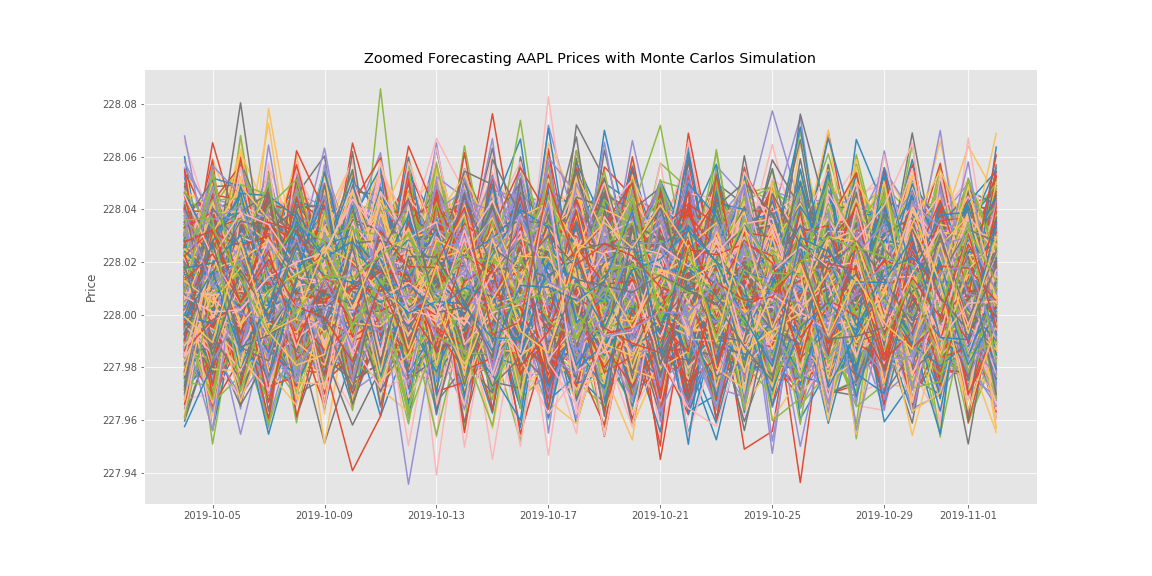
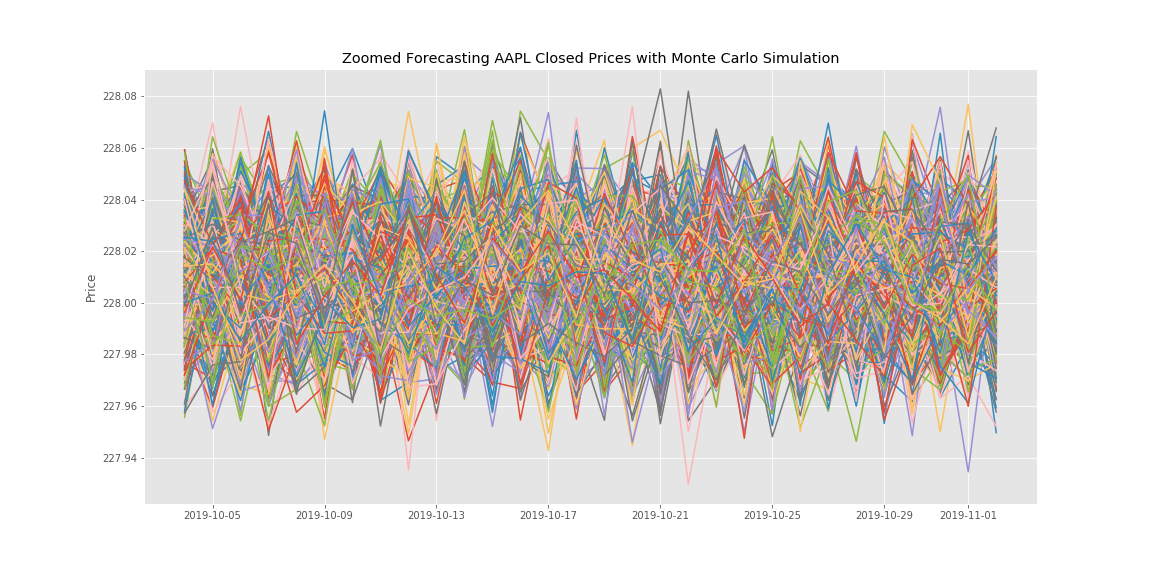
Adjusting the title of plots

diff --git a/montecarlo_simulation.py b/montecarlo_simulation.py
@@ -46,7 +46,7 @@ for i in range(num_trials):
 dates=pd.date_range(end,dt.datetime(2019,11,2)).tolist()
 simulations.index=dates
 plt.figure(figsize=(16,8))
-plt.title('Forecasting AAPL Prices with Monte Carlo Simulations')
+plt.title('Forecasting AAPL Closed Prices with Monte Carlo Simulations')
 plt.ylabel('Price')
 plt.plot(prices)
 plt.plot(simulations,linestyle='--')
@@ -55,7 +55,7 @@ plt.show()
 
 # Zoomed plot
 plt.figure(figsize=(16,8))
-plt.title('Zoomed Forecasting AAPL Prices with Monte Carlos Simulation')
+plt.title('Zoomed Forecasting AAPL Closed Prices with Monte Carlo Simulation')
 plt.ylabel('Price')
 plt.plot(simulations)
 plt.savefig('Zoomed Forecasted.png')
